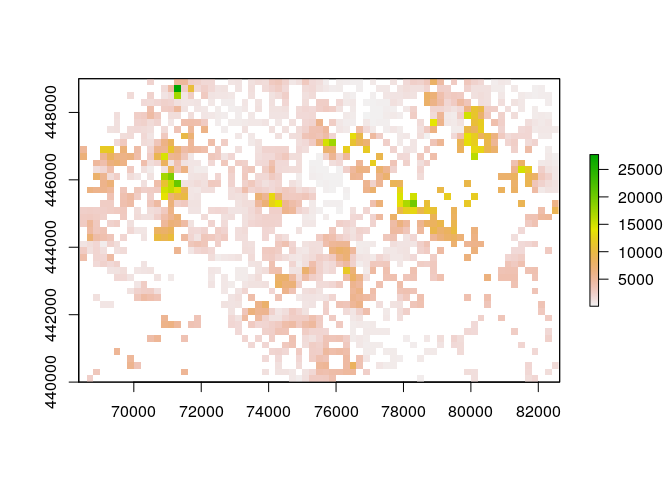
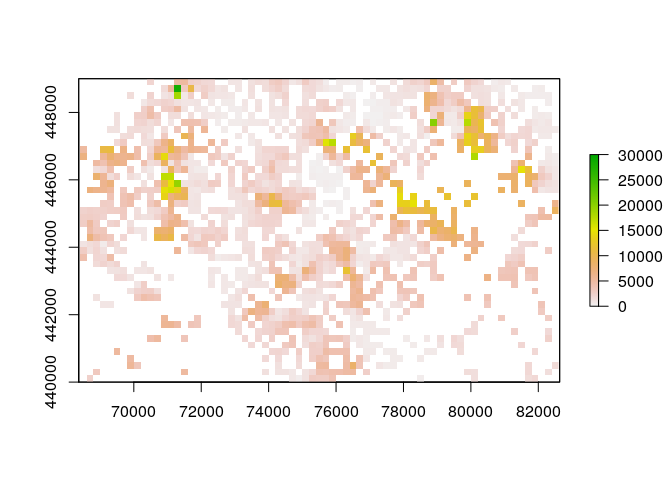
tweaking

diff --git a/README.md b/README.md
@@ -8,14 +8,11 @@ status](https://travis-ci.org/edwindj/sdcSpatial.svg?branch=master)](https://tra
 [![AppVeyor build
 status](https://ci.appveyor.com/api/projects/status/github/edwindj/sdcSpatial?branch=master&svg=true)](https://ci.appveyor.com/project/edwindj/sdcSpatial)
 
-**PACKAGE IS IN DEVELOPMENT (HIGH FLUX), AT THE MOMENT DO NOT USE FOR
-PRODUCTION**
-
 # sdcSpatial
 
-`sdcSpatial` is a R package to create smoothed spatial maps with the
-extra restriction that it tries protect the privacy of the individuals
-within the original data set.
+`sdcSpatial` is a R package to create spatial raster maps from point
+data with the restriction that it tries protect the privacy of the
+individuals within the original data set.
 
 ## Installation
 
@@ -29,30 +26,39 @@ remotes::install_github("edwindj/sdcSpatial")
 
 ``` r
 library(sdcSpatial)
-#> 
-#> Attaching package: 'sdcSpatial'
-#> The following object is masked from 'package:stats':
-#> 
-#>     smooth
+library(raster)
+#> Loading required package: sp
 
-data("enterprises")
+# create a sdc_raster from point data with raster with resolution of 200m
+production <- sdc_raster(enterprises, variable = "production", r = 200)
 
-r <- create_raster(enterprises)
-r_cont <- raster::rasterize(enterprises, r, field='sens_cont', fun = mean)
-raster::plot(r_cont)
+# plot the raster
+zlim <- c(0, 3e4)
+plot(production, zlim=zlim)
 ```
 
 <img src="man/figures/README-example-1.png" width="100%" />
 
 ``` r
 
-enterprises_df <- as.data.frame(enterprises)
-summary(enterprises_df)
-#>        x               y            sens_cont         sens_discrete  
-#>  Min.   :68508   Min.   :440024   Min.   :    59.46   Mode :logical  
-#>  1st Qu.:71613   1st Qu.:444007   1st Qu.:  1019.98   FALSE:7931     
-#>  Median :74296   Median :446297   Median :  1954.32   TRUE :417      
-#>  Mean   :74649   Mean   :445821   Mean   :  3249.59                  
-#>  3rd Qu.:77227   3rd Qu.:447798   3rd Qu.:  3901.44                  
-#>  Max.   :82499   Max.   :449000   Max.   :114467.56
+# which raster cells are unsafe?
+unsafe <- is_unsafe(production, min_count = 3)
+plot(unsafe, col = c('white', 'red'))
 ```
+
+<img src="man/figures/README-example-2.png" width="100%" />
+
+``` r
+cellStats(unsafe, mean)
+#> [1] 0.6328234
+
+smoothed <- protect_smooth(production, bw = 400)
+smoothed_unsafe <- is_unsafe(smoothed, min_count = 3)
+cellStats(smoothed_unsafe, mean)
+#> [1] 0.1779744
+
+smoothed_safe <- remove_unsafe(smoothed, min_count = 3)
+plot(smoothed_safe, zlim=zlim)
+```
+
+<img src="man/figures/README-example-3.png" width="100%" />
